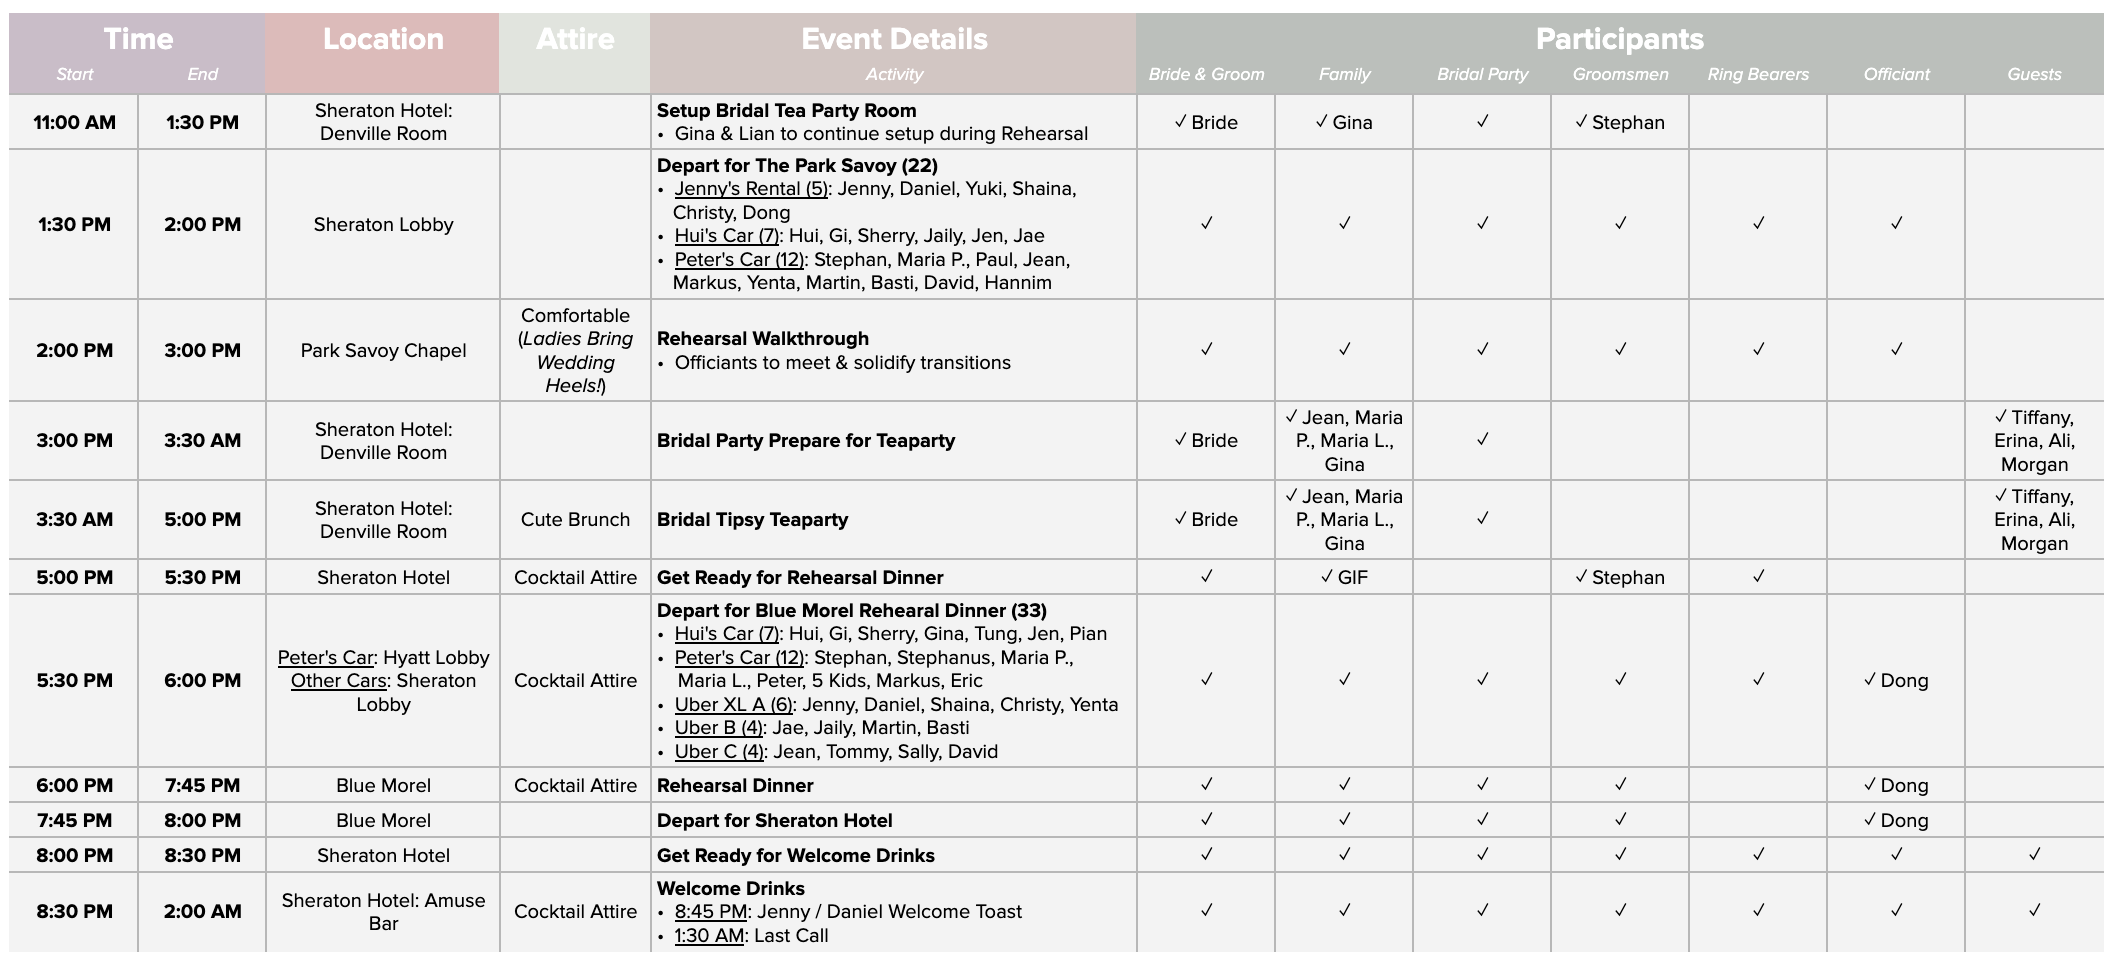
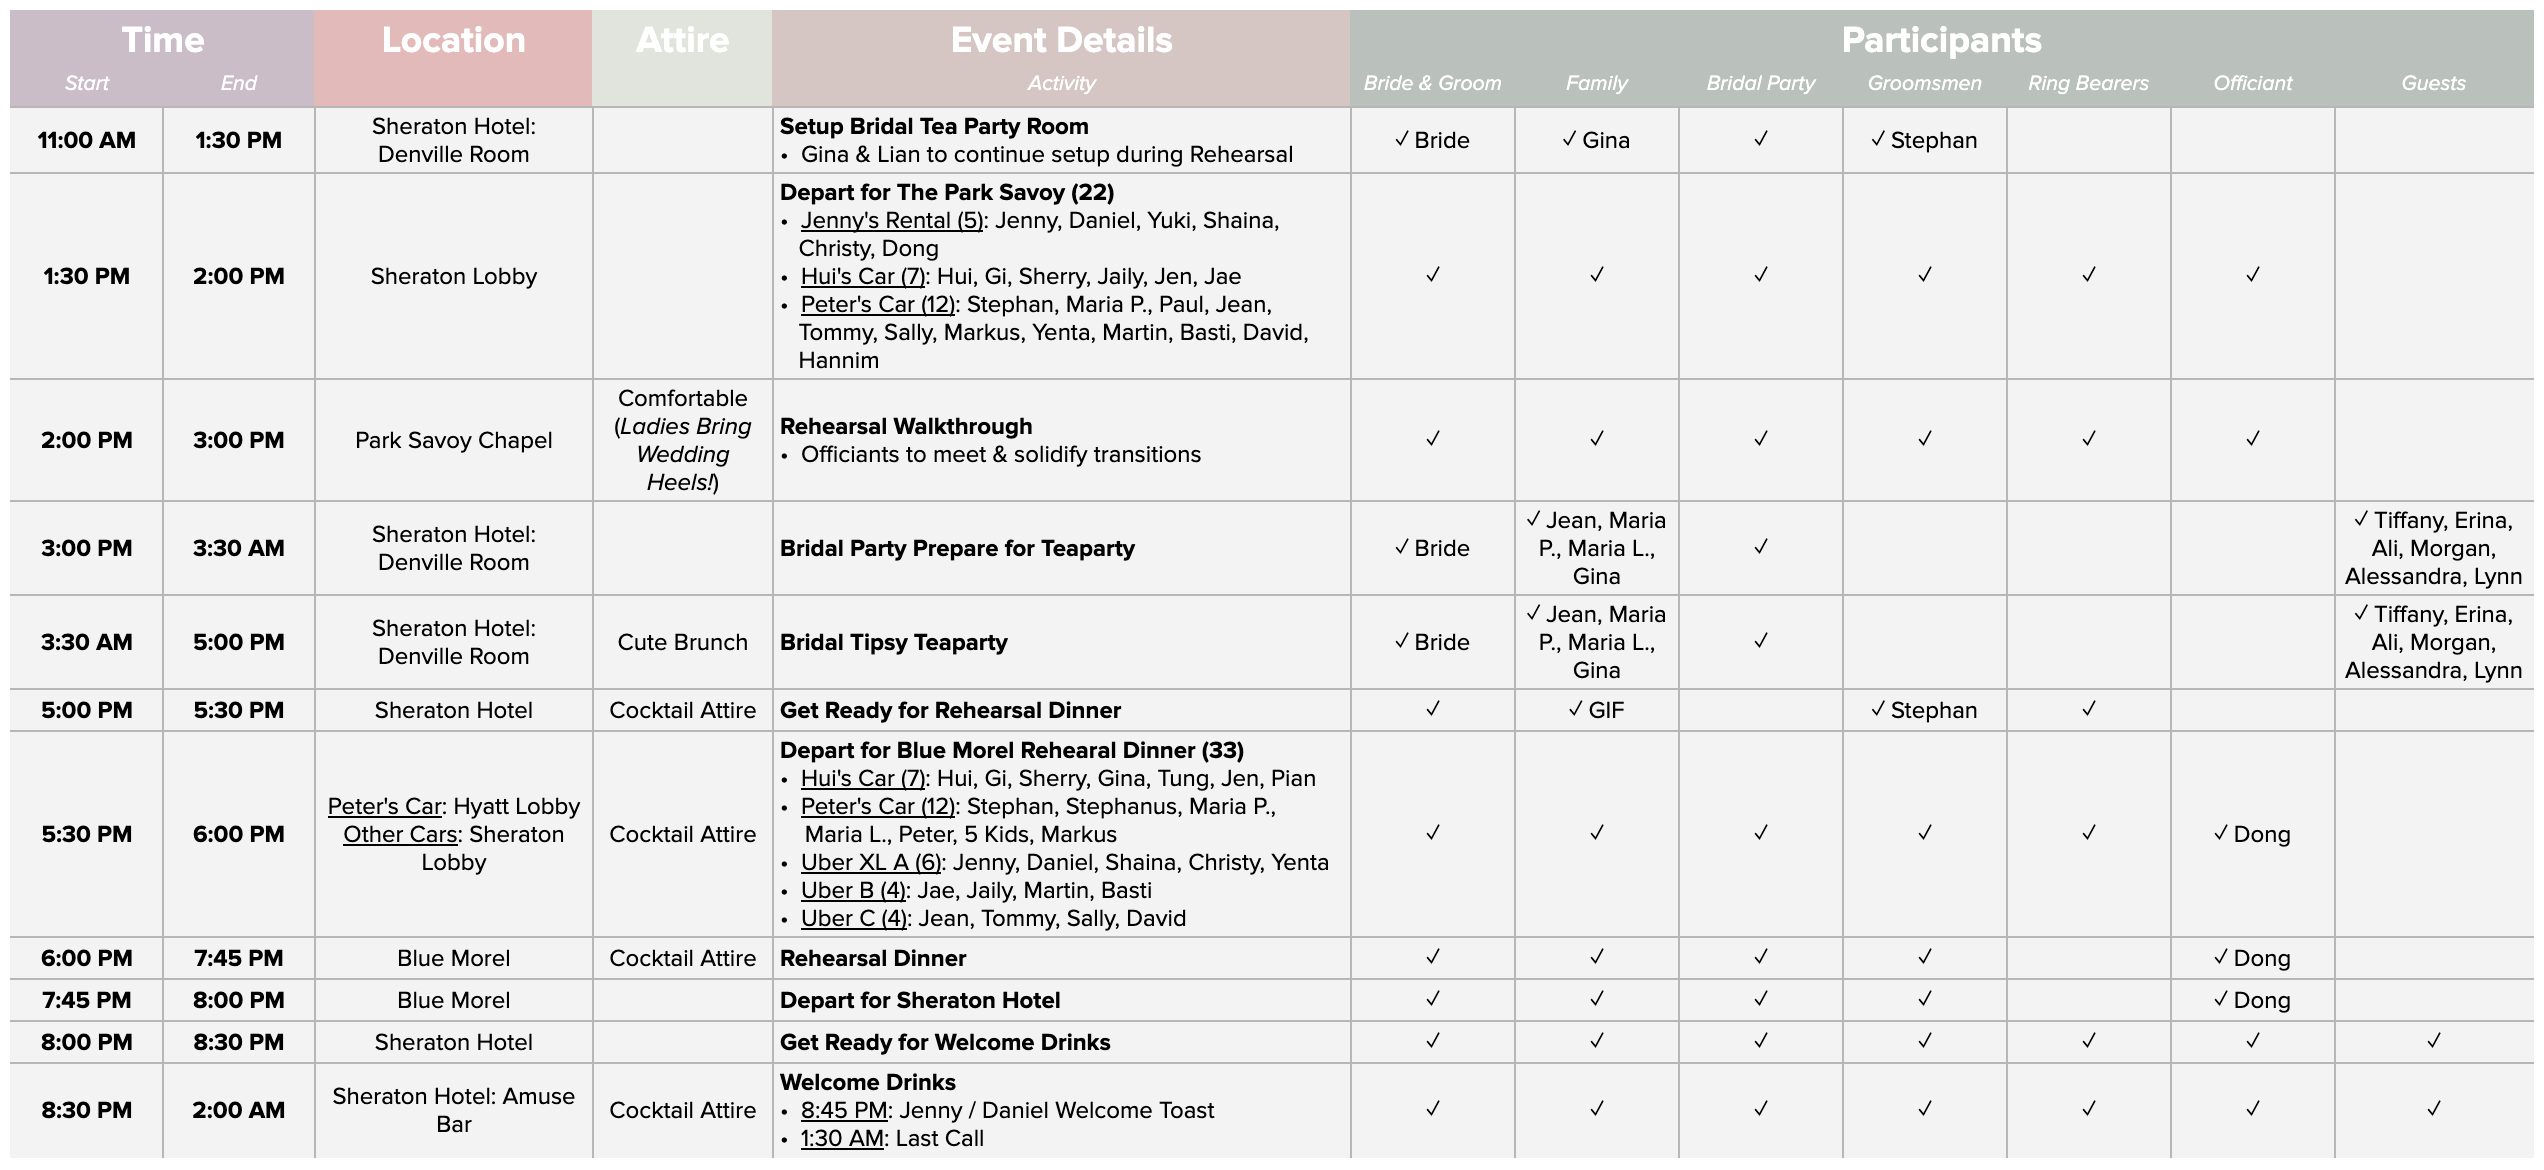
updated Sat schedule

diff --git a/schedule-ladies.html b/schedule-ladies.html
@@ -61,7 +61,7 @@
                                 <h2>Abbreviations</h2>
 
                                 <ul style="list-style-type:disc;">
-                                    <li><u>GIF / GEF</u>: Groom's Immediate / Extended Family</li>
+                                    <li><u>GIF</u>: Groom's Immediate Family</li>
                                 </ul>
 
                                 <h2>Packing List</h2>
@@ -136,6 +136,7 @@
                                     <li>Safety Pins</li>
                                     <li>Bandaids</li>
                                     <li>Medications / Advil</li>
+                                    <li>Hangover Kit (Provided by Jenny)</li>
                                     <li>Makeup for touchups</li>
                                     <li>Phone Charger / Portable Charger</li>
                                     <li><b>Shaina & Christy</b>: Speeches</li>

diff --git a/schedule-gents.html b/schedule-gents.html
@@ -61,7 +61,7 @@
                                 <br><h2>Abbreviations</h2>
 
                                 <ul style="list-style-type:disc;">
-                                    <li><u>GIF / GEF</u>: Groom's Immediate Family</li>
+                                    <li><u>GIF</u>: Groom's Immediate Family</li>
                                 </ul>
 
                                 <h2>Packing List</h2>
@@ -128,6 +128,7 @@
                                     <li>Cologne</li>
                                     <li>First Aid</li>
                                     <li>Medications / Advil</li>
+                                    <li>Hangover Kit (Provided by Daniel)</li>
                                     <li>Contacts / Glasses</li>
                                     <li>Phone Charger / Portable Charger</li>
                                     <li>Steamer (Provided by Park Savoy)</li>
